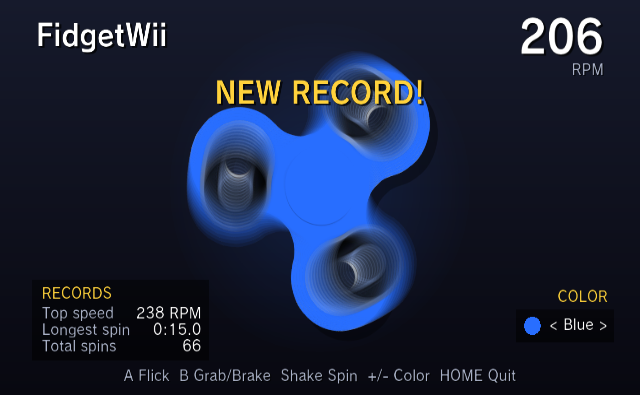
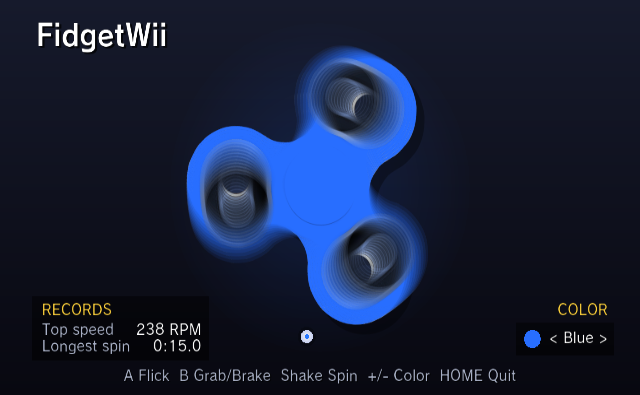
Hide the live RPM readout and total spin count

diff --git a/source/main.c b/source/main.c
@@ -87,20 +87,6 @@ static void format_time(char *buf, size_t len, float seconds)
     snprintf(buf, len, "%d:%04.1f", m, s);
 }
 
-static void format_count(char *buf, size_t len, double n)
-{
-    char raw[32];
-    snprintf(raw, sizeof(raw), "%.0f", n);
-    int digits = strlen(raw), out = 0;
-    for (int i = 0; i < digits && out < (int)len - 1; i++)
-    {
-        if (i && (digits - i) % 3 == 0 && out < (int)len - 2)
-            buf[out++] = ',';
-        buf[out++] = raw[i];
-    }
-    buf[out] = 0;
-}
-
 int main(int argc, char **argv)
 {
     Gfx_Init();
@@ -427,33 +413,27 @@ int main(int argc, char **argv)
 
         Gfx_TextShadow(36, 26, 2.0f, white, "FidgetWii");
 
-        snprintf(buf, sizeof(buf), "%d", (int)(rpm + 0.5f));
-        Gfx_TextShadow(604 - Gfx_TextWidth(buf, 3.0f), 20, 3.0f, white, buf);
-        Gfx_TextShadow(604 - Gfx_TextWidth("RPM", 1.0f), 76, 1.0f, dim, "RPM");
 
         // Records panel
         float px = 32, py = 340;
-        Gfx_Rect(px, py, 236 * ax, 98, (Color){0, 0, 0, 120}, (Color){0, 0, 0, 150});
-        Gfx_Text(px + 10, py + 8, 1.0f, accent, "RECORDS");
+        Gfx_Rect(px, py + 20, 236 * ax, 78, (Color){0, 0, 0, 120}, (Color){0, 0, 0, 150});
+        Gfx_Text(px + 10, py + 28, 1.0f, accent, "RECORDS");
         float vx = px + 226 * ax;
         snprintf(buf, sizeof(buf), "%d RPM", (int)(save.best_rpm + 0.5f));
-        Gfx_Text(px + 10, py + 32, 1.0f, dim, "Top speed");
-        Gfx_Text(vx - Gfx_TextWidth(buf, 1.0f), py + 32, 1.0f, white, buf);
-        format_time(buf, sizeof(buf), save.longest_spin);
-        Gfx_Text(px + 10, py + 52, 1.0f, dim, "Longest spin");
+        Gfx_Text(px + 10, py + 52, 1.0f, dim, "Top speed");
         Gfx_Text(vx - Gfx_TextWidth(buf, 1.0f), py + 52, 1.0f, white, buf);
-        format_count(buf, sizeof(buf), save.total_spins);
-        Gfx_Text(px + 10, py + 72, 1.0f, dim, "Total spins");
+        format_time(buf, sizeof(buf), save.longest_spin);
+        Gfx_Text(px + 10, py + 72, 1.0f, dim, "Longest spin");
         Gfx_Text(vx - Gfx_TextWidth(buf, 1.0f), py + 72, 1.0f, white, buf);
 
         // Colour picker
         snprintf(buf, sizeof(buf), "< %s >", colors[save.color].name);
         float cw = Gfx_TextWidth(buf, 1.0f);
         float cx = 608 - cw;
-        Gfx_Rect(cx - 44 * ax, py + 36, cw + 52 * ax, 40, (Color){0, 0, 0, 120}, (Color){0, 0, 0, 150});
-        Gfx_Disc(cx - 22 * ax, py + 56, 11, (Color){tint.r, tint.g, tint.b, 255}, (Color){tint.r, tint.g, tint.b, 255});
-        Gfx_Text(cx, py + 46, 1.0f, white, buf);
-        Gfx_Text(608 - Gfx_TextWidth("COLOR", 1.0f), py + 12, 1.0f, accent, "COLOR");
+        Gfx_Rect(cx - 44 * ax, py + 52, cw + 52 * ax, 40, (Color){0, 0, 0, 120}, (Color){0, 0, 0, 150});
+        Gfx_Disc(cx - 22 * ax, py + 72, 11, (Color){tint.r, tint.g, tint.b, 255}, (Color){tint.r, tint.g, tint.b, 255});
+        Gfx_Text(cx, py + 62, 1.0f, white, buf);
+        Gfx_Text(608 - Gfx_TextWidth("COLOR", 1.0f), py + 28, 1.0f, accent, "COLOR");
 
         if (show_help && toast_timer <= 0.0f)
         {

diff --git a/README.md b/README.md
@@ -25,8 +25,9 @@ Black, Gold and Rainbow.
 
 ## Records
 
-FidgetWii keeps your top speed (RPM), your longest spin (time spent coasting
-after the last push) and your lifetime number of spins. They are saved, along
+FidgetWii shows your top speed (RPM) and your longest spin (time spent
+coasting after the last push), and also tracks your lifetime number of spins.
+They are saved, along
 with your color choice, to `sd:/apps/FidgetWii/record.txt` when the spinner
 stops and when you exit.
 
